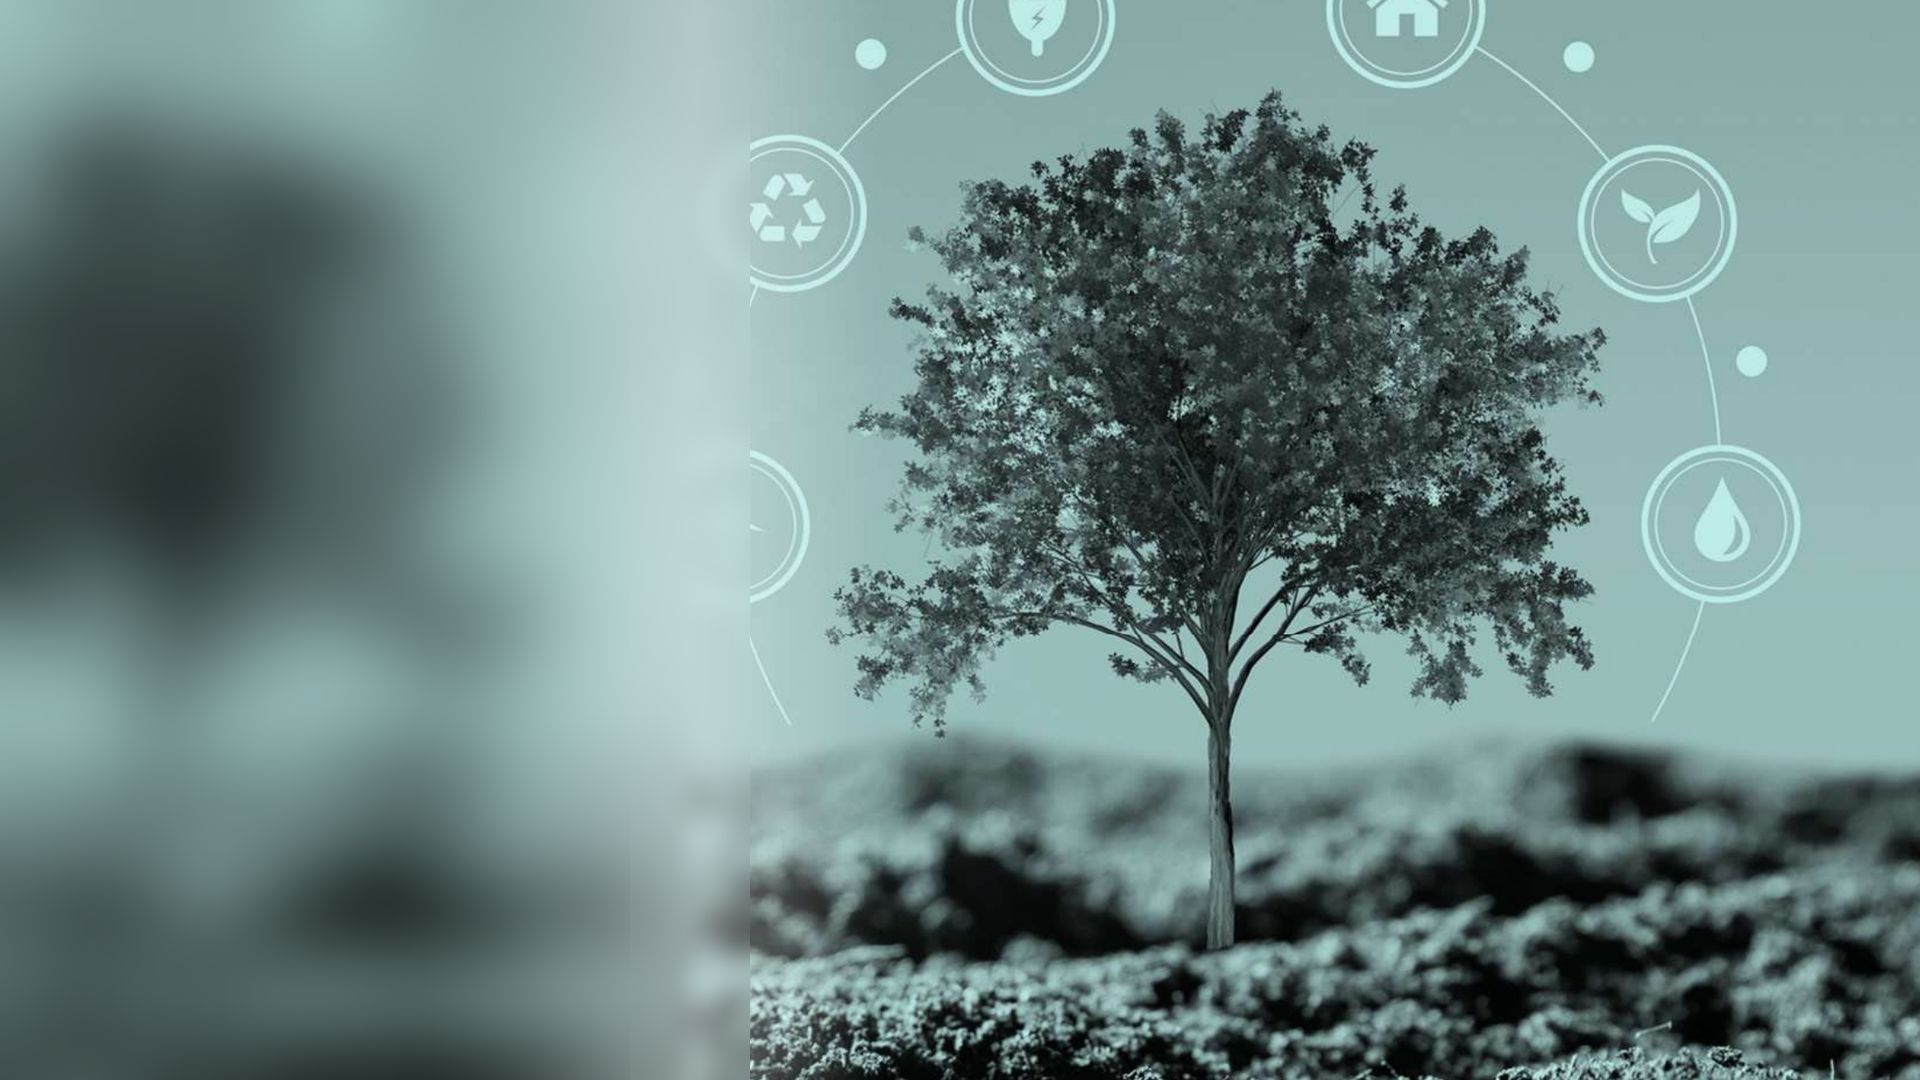
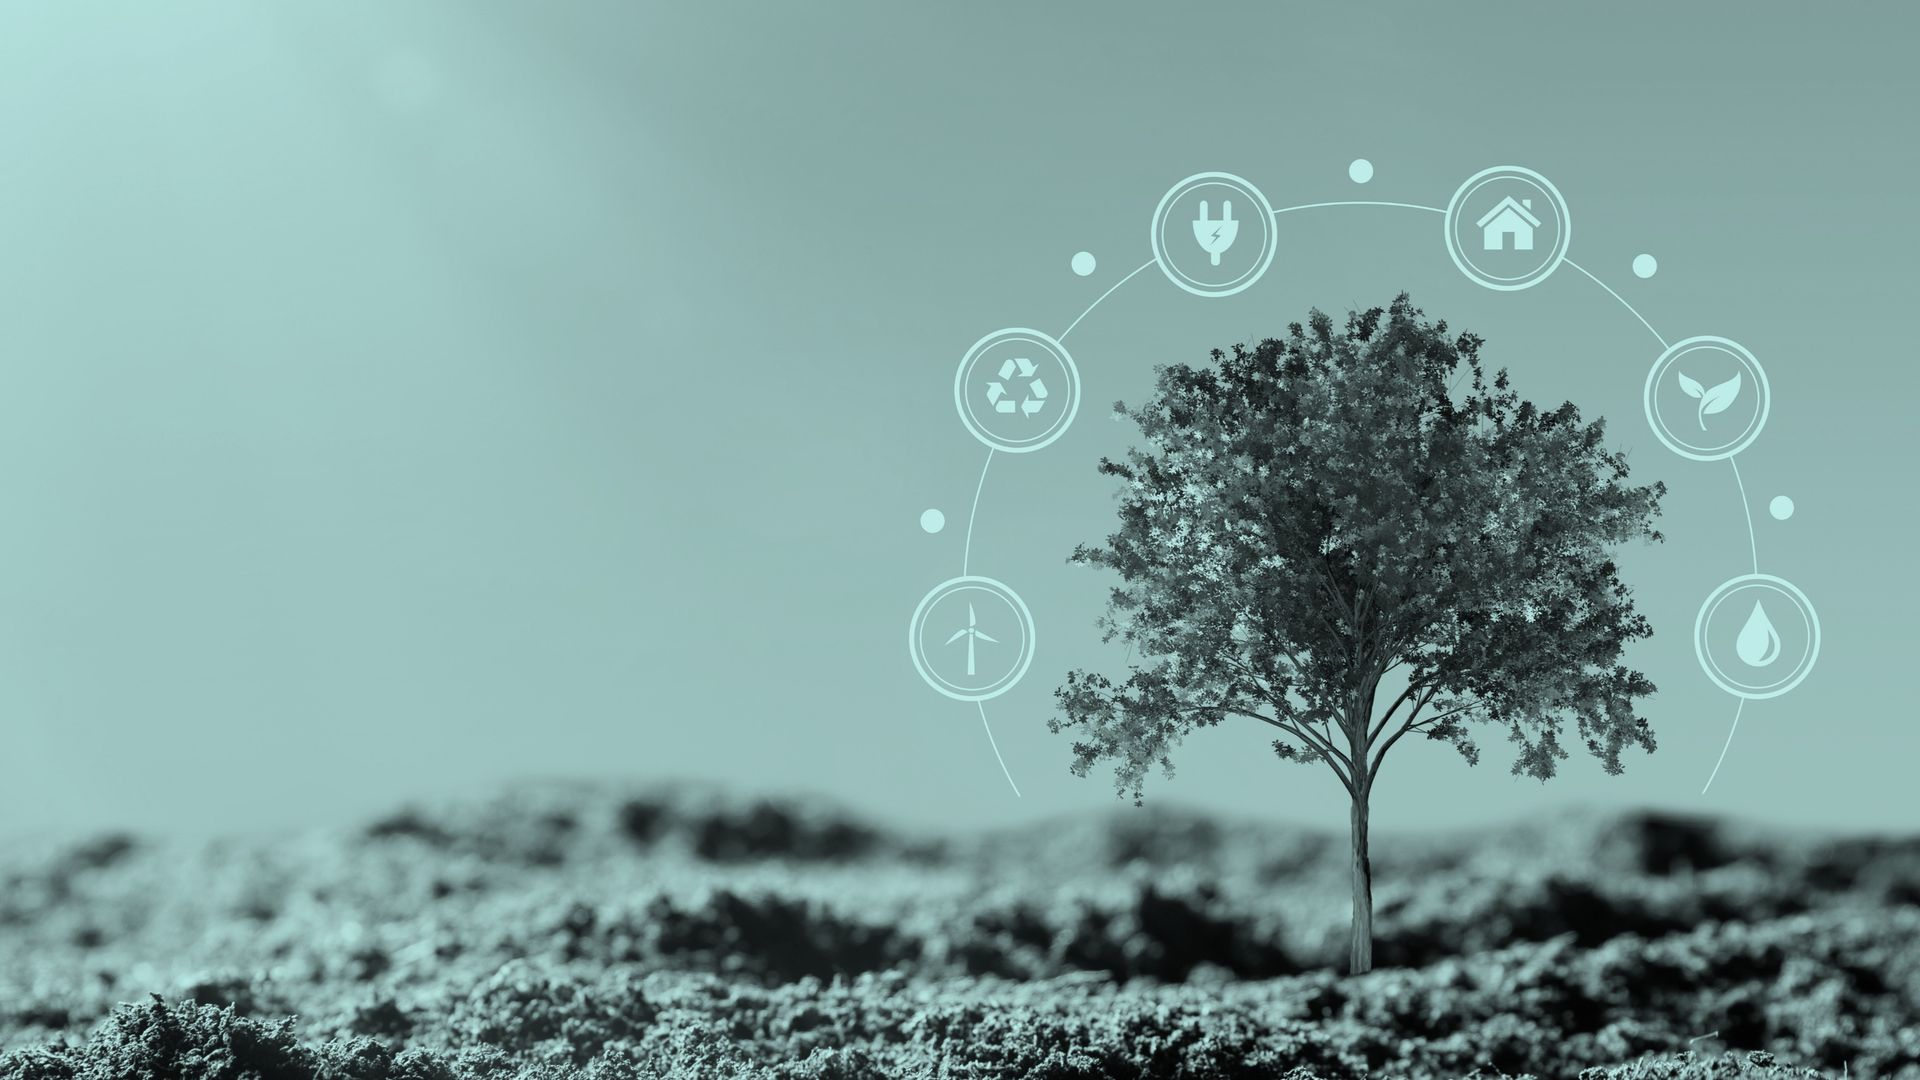
Lecture 1: use the original tree, green jobs and salmon pictures
Replaces three PDF crops with the full-size originals from the instructor's
Lecture01 folder: the title and takeaway photo, the IRENA green jobs map
(now beside the three numbers), and the salmon on the non-Western views slide.

Claude-Session: https://claude.ai/code/session_013ai94FCKTpnjEwsPpu5TKZ

diff --git a/lectures/m1-l1-triple-bottom-line/index.html b/lectures/m1-l1-triple-bottom-line/index.html
@@ -291,12 +291,14 @@
   <div class="content center">
     <div class="k reveal ih"><span class="ico sm green"><svg aria-hidden="true"><use href="#i-briefcase"/></svg></span>Big idea 1 · careers</div>
     <h2 class="reveal d2">Green jobs are in <em>demand</em></h2>
-    <figure class="fig plain reveal d3"><img src="img/green-jobs.jpg" alt="World map of renewable energy jobs in thousands: China 7,388, European Union 1,812, Brazil 1,567, United States 1,056, India 1,019, with a legend of renewable energy types"></figure>
-    <p class="credit reveal d3" style="text-align:right">Source: IRENA (International Renewable Energy Agency)</p>
-    <div class="stats reveal d4">
+    <div class="grid" style="grid-template-columns:1140px 1fr;gap:56px;align-items:center">
+      <div class="reveal d3"><figure class="fig plain"><img src="img/green-jobs.jpg" alt="World map of renewable energy jobs in thousands: China 7,388, Rest of Asia 2,161, European Union 1,812, Brazil 1,567, United States 1,056, India 1,019, Rest of Latin America 508, Africa 324, Rest of Europe 240, Oceania 91, Rest of North America 69. 16.2 million jobs in 2023"></figure>
+      <p class="credit">Source: IRENA, Renewable Energy and Jobs: Annual Review 2024</p></div>
+    <div class="stats reveal d4" style="grid-template-columns:1fr;gap:34px;margin:0">
       <div><b>16.2 million</b><span>renewable energy jobs worldwide in 2023</span></div>
       <div><b>7.4 million</b><span>of them in China, the largest share</span></div>
       <div><b>About 1 million</b><span>in the United States</span></div>
+    </div>
     </div>
   </div>
   <aside class="notes">Numbers are from the IRENA map in the original slides (Renewable Energy and Jobs, Annual Review 2024): 16.2 million jobs in 2023, in thousands: China 7,388, EU 1,812, Brazil 1,567, United States 1,056, India 1,019. Solar photovoltaic is the largest employer. Ask: which of these jobs could you see yourself in?</aside>
@@ -488,7 +490,7 @@
           <li><b>Regeneration:</b> take care so nature can renew itself</li>
         </ul>
       </div>
-      <figure class="fig plain reveal d3"><img src="img/non-western.jpg" alt="A salmon over a river shape, labelled co-existence, stability, way of life and regeneration"></figure>
+      <figure class="fig plain reveal d3"><img src="img/salmon.webp" alt="Illustration of a salmon swimming upstream"></figure>
     </div>
   </div>
   <aside class="notes">The salmon is a common example: for many Pacific Northwest tribes, salmon are relatives, food and culture at once, so a healthy salmon run is not just an economic or environmental measure. Module 7 returns to Indigenous sustainability. The graphic is from the original slides.</aside>
